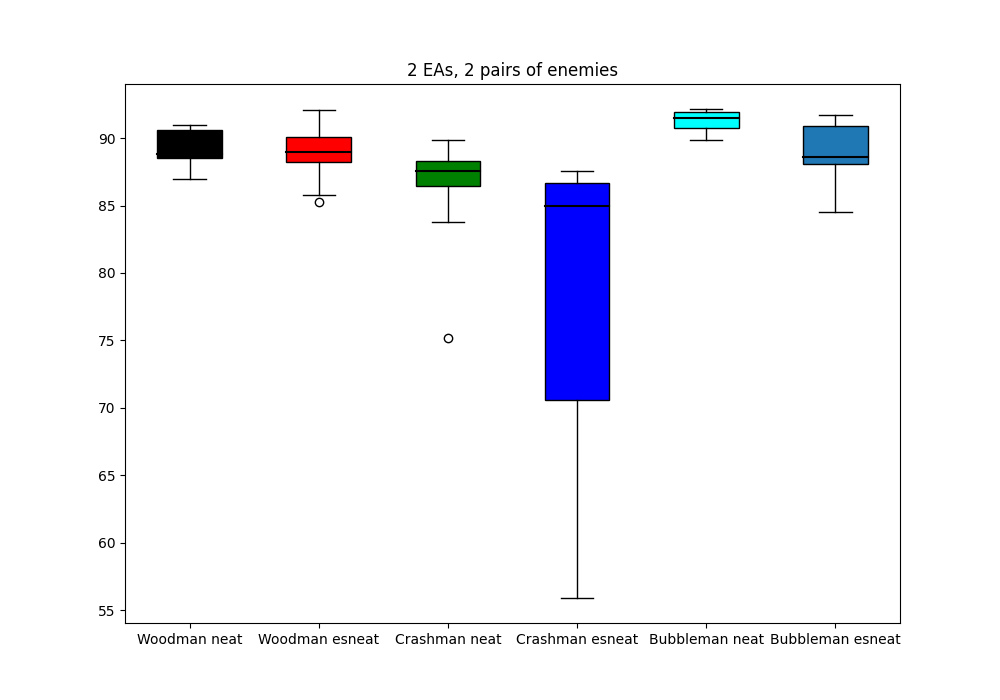
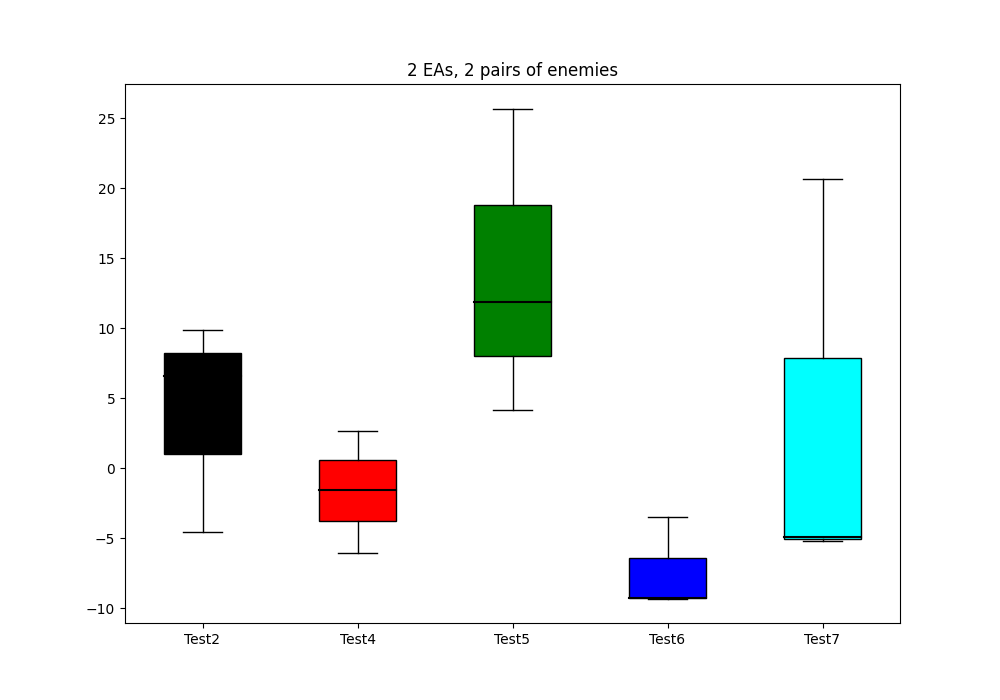
boxplot works for test.csv

diff --git a/general/plot.py b/general/plot.py
@@ -26,12 +26,15 @@ def boxplot(data_file):
     all_data = []
     all_groups = []
     # read csv file
-    with open('Boxplot.csv', newline='') as csvfile:
+    with open(data_file, newline='') as csvfile:
         spamreader = csv.reader(csvfile, delimiter=',', quotechar='|')
         for row in spamreader:
+            row_list = []
             all_groups.append(row[0])
-            data = list(map(float, row[1:]))
-            all_data.append(data)
+            for i in range(2, len(row)-1, 2):
+                print(row[i])
+                row_list.append(float(row[i]))
+            all_data.append(row_list)
 
     # boxplot
     fig = plt.figure(figsize =(10, 7))
@@ -52,7 +55,6 @@ def boxplot(data_file):
     # save plot  
     plt.savefig("Boxplot")
     return 
-
   
 if __name__ == "__main__":
     # Gather paths

diff --git a/general/boxplot.py b/general/boxplot.py
@@ -12,9 +12,12 @@ def boxplot(data_file):
     with open(data_file, newline='') as csvfile:
         spamreader = csv.reader(csvfile, delimiter=',', quotechar='|')
         for row in spamreader:
+            row_list = []
             all_groups.append(row[0])
-            data = list(map(float, row[1:]))
-            all_data.append(data)
+            for i in range(2, len(row)-1, 2):
+                print(row[i])
+                row_list.append(float(row[i])) # change for test.csv 
+            all_data.append(row_list)
 
     # boxplot
     fig = plt.figure(figsize =(10, 7))

diff --git a/neat_test.py b/neat_test.py
@@ -21,7 +21,7 @@ env = Environment(experiment_name='logs',
 
 # Open boxplot stats file 
 statsfile = open(r"test.csv", "a")
-statsfile.write("neat" if NEAT else "esneat" + ', ')
+statsfile.write("neat" if NEAT else "esneat" + ',')
 
 if __name__ == "__main__":
 
